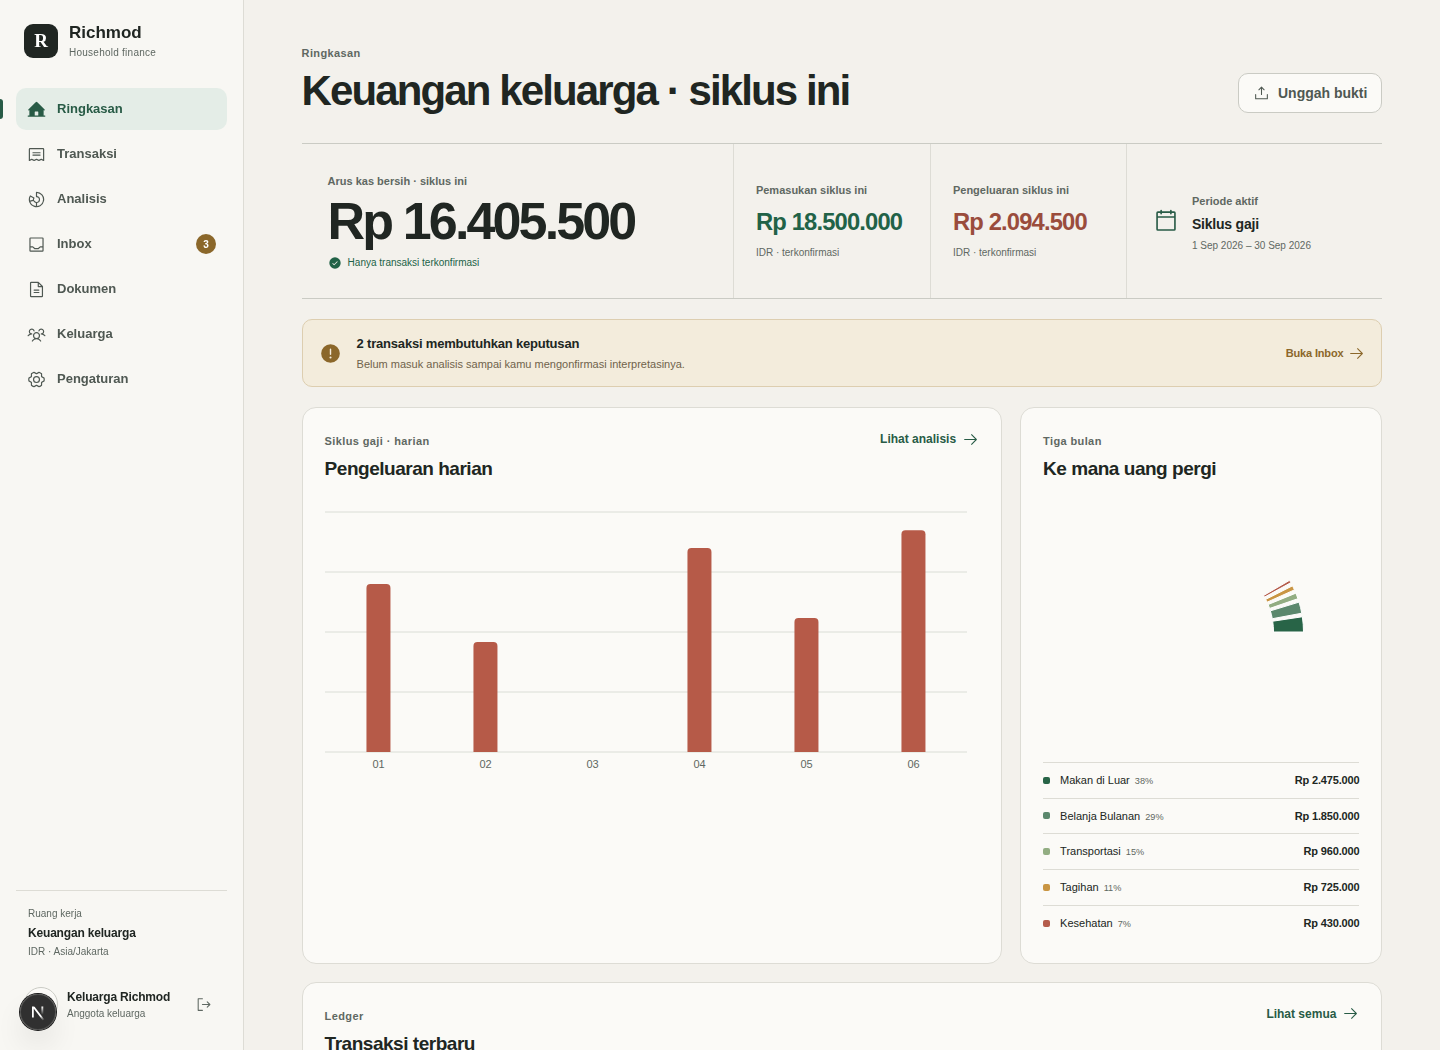
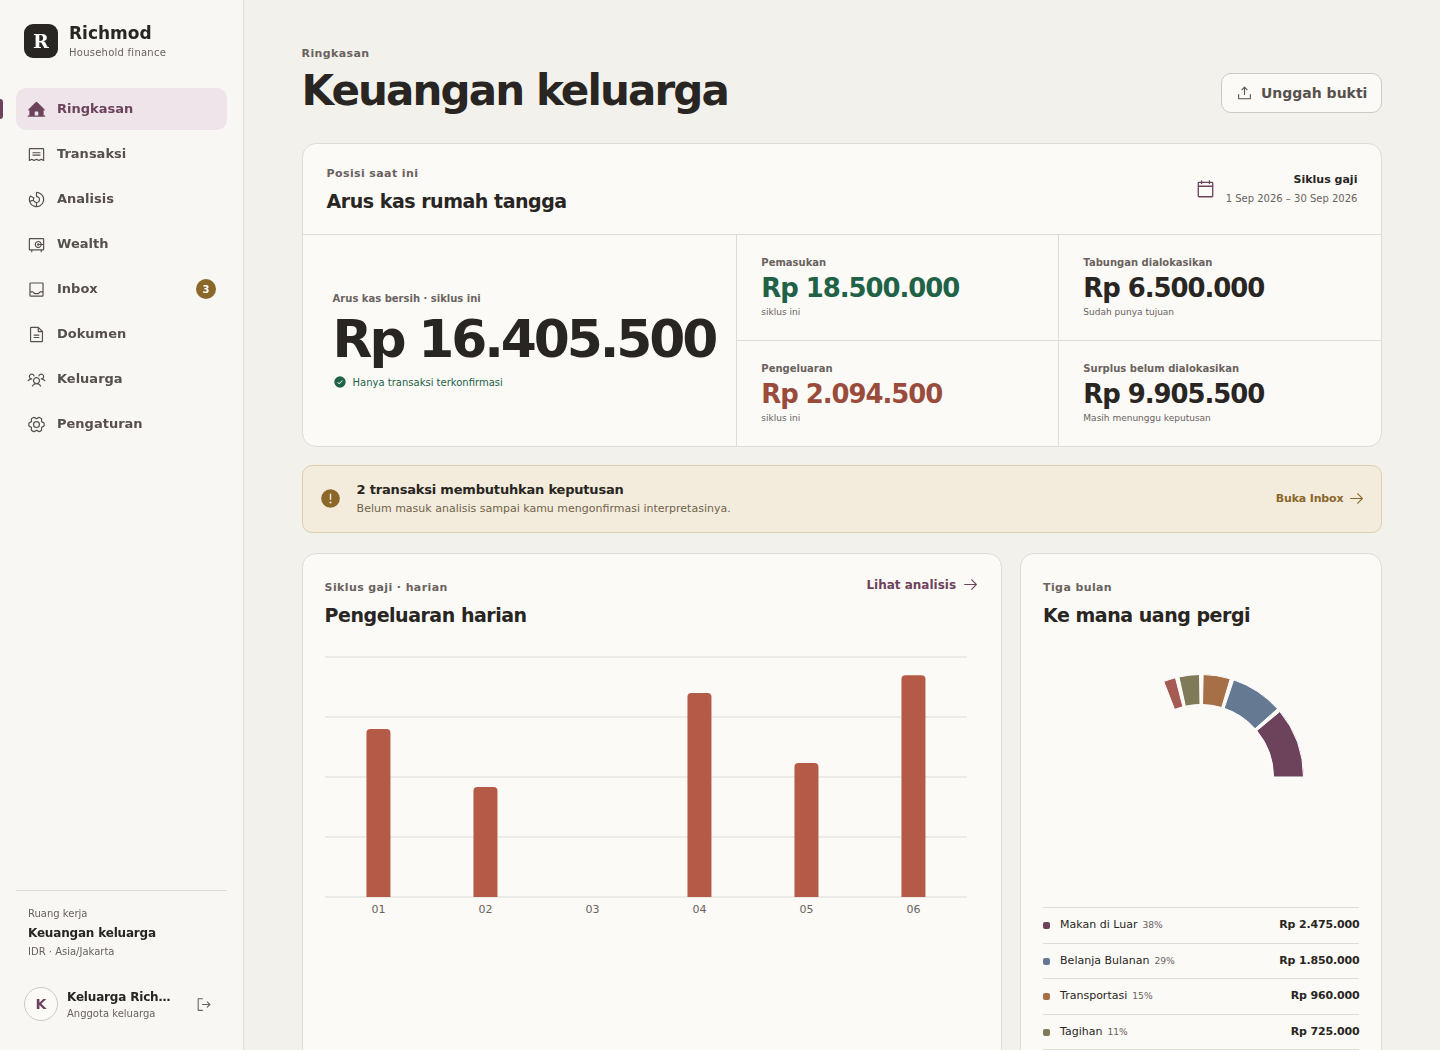
docs: refresh quick look with wealth

diff --git a/docs/runbooks/readme-showcase.md b/docs/runbooks/readme-showcase.md
@@ -2,11 +2,12 @@
 
 ## Purpose
 
-`README.md` includes five product screenshots:
+`README.md` includes six product screenshots:
 
 - `docs/assets/landing.png`
 - `docs/assets/login.png`
 - `docs/assets/dashboard.png`
+- `docs/assets/wealth.png`
 - `docs/assets/review-inbox.png`
 - `docs/assets/analytics.png`
 
@@ -58,7 +59,7 @@ Wait until this succeeds:
 curl -fsS http://localhost:3002 >/dev/null
 ```
 
-Capture all five images. `--network host` is intentional for a Linux Docker
+Capture all six images. `--network host` is intentional for a Linux Docker
 host: it lets the disposable browser reach the loopback-only web server.
 
 ```bash
@@ -72,8 +73,8 @@ docker run --rm --network host \
 
 The script uses a 1440×1050 desktop viewport, waits for the relevant public or
 authenticated shell and web fonts, disables animation, then overwrites only the
-five PNG files above. It captures the public landing and login experiences plus
-the dashboard, transaction Review Inbox view, and analytics page.
+six PNG files above. It captures the public landing and login experiences plus
+the dashboard, Wealth, transaction Review Inbox view, and analytics page.
 
 For an already-running local server on port `3000`, the shorter command is:
 
@@ -95,6 +96,7 @@ with the UI, and contains synthetic data only.
 file docs/assets/landing.png \
   docs/assets/login.png \
   docs/assets/dashboard.png \
+  docs/assets/wealth.png \
   docs/assets/review-inbox.png \
   docs/assets/analytics.png
 ```

diff --git a/README.md b/README.md
@@ -30,9 +30,9 @@ Forward financial notifications, send a message or image through Telegram, or up
 | --- | --- |
 | ![Richmod public landing page](docs/assets/landing.png) | ![Richmod login experience](docs/assets/login.png) |
 
-| Dashboard | Review Inbox |
-| --- | --- |
-| ![Richmod household dashboard](docs/assets/dashboard.png) | ![Richmod Review Inbox](docs/assets/review-inbox.png) |
+| Dashboard | Wealth | Review Inbox |
+| --- | --- | --- |
+| ![Richmod household dashboard](docs/assets/dashboard.png) | ![Richmod household Wealth](docs/assets/wealth.png) | ![Richmod Review Inbox](docs/assets/review-inbox.png) |
 
 ![Richmod household analytics](docs/assets/analytics.png)
 
